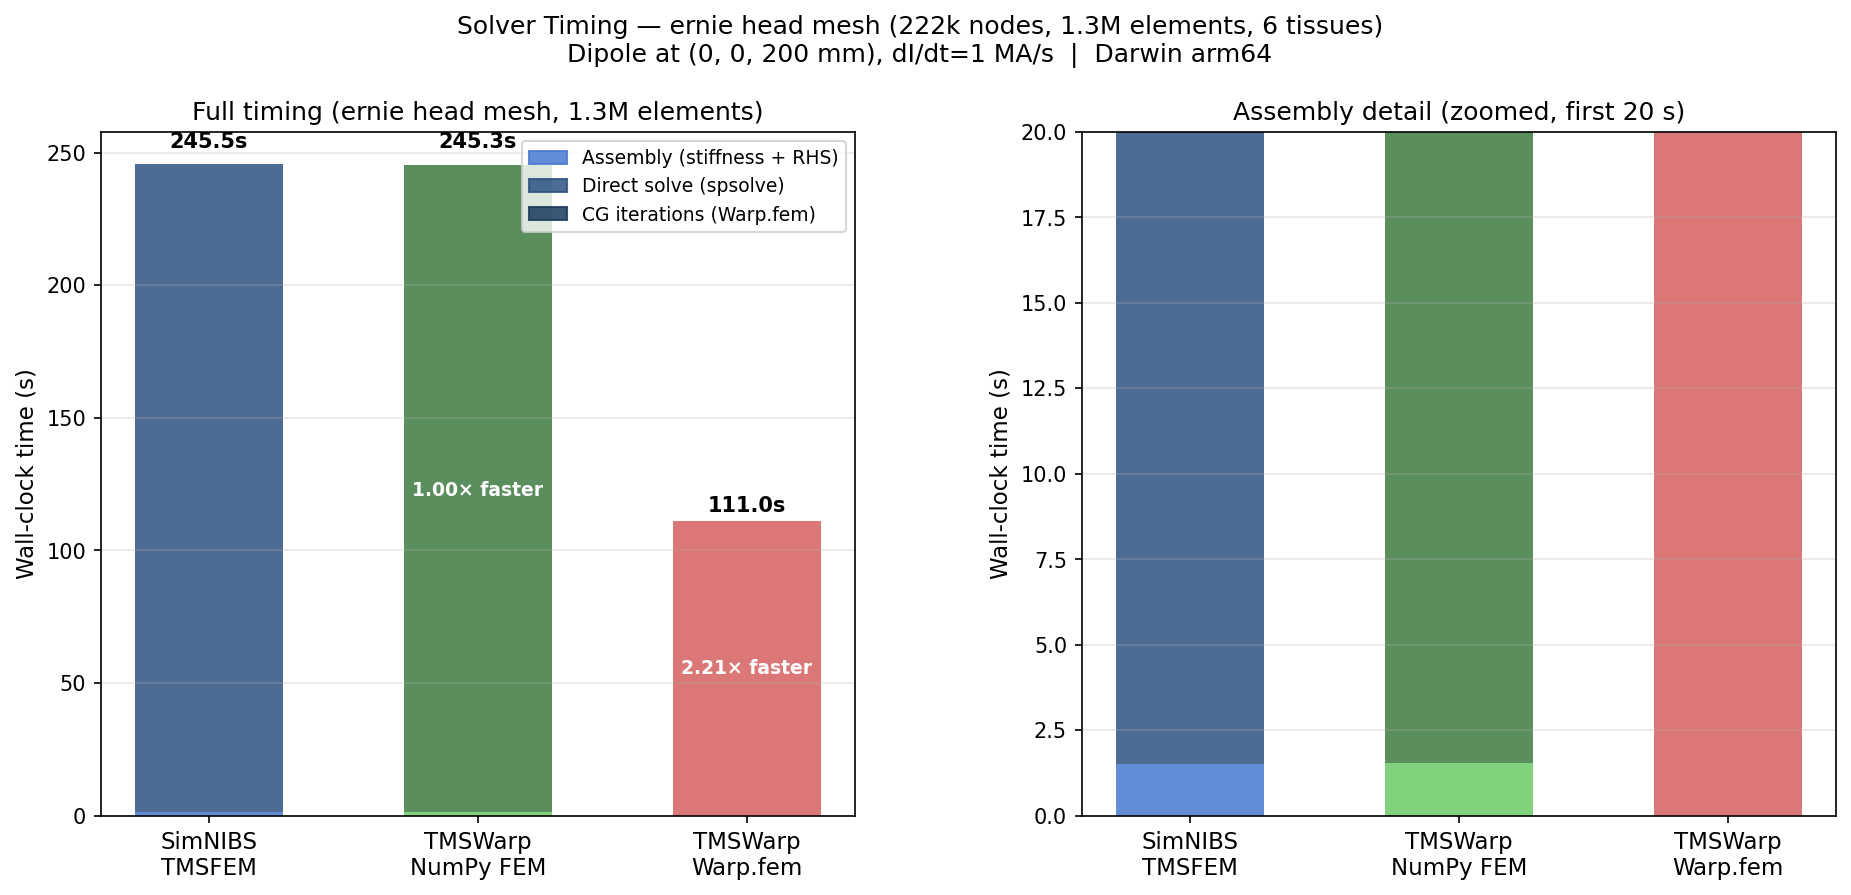
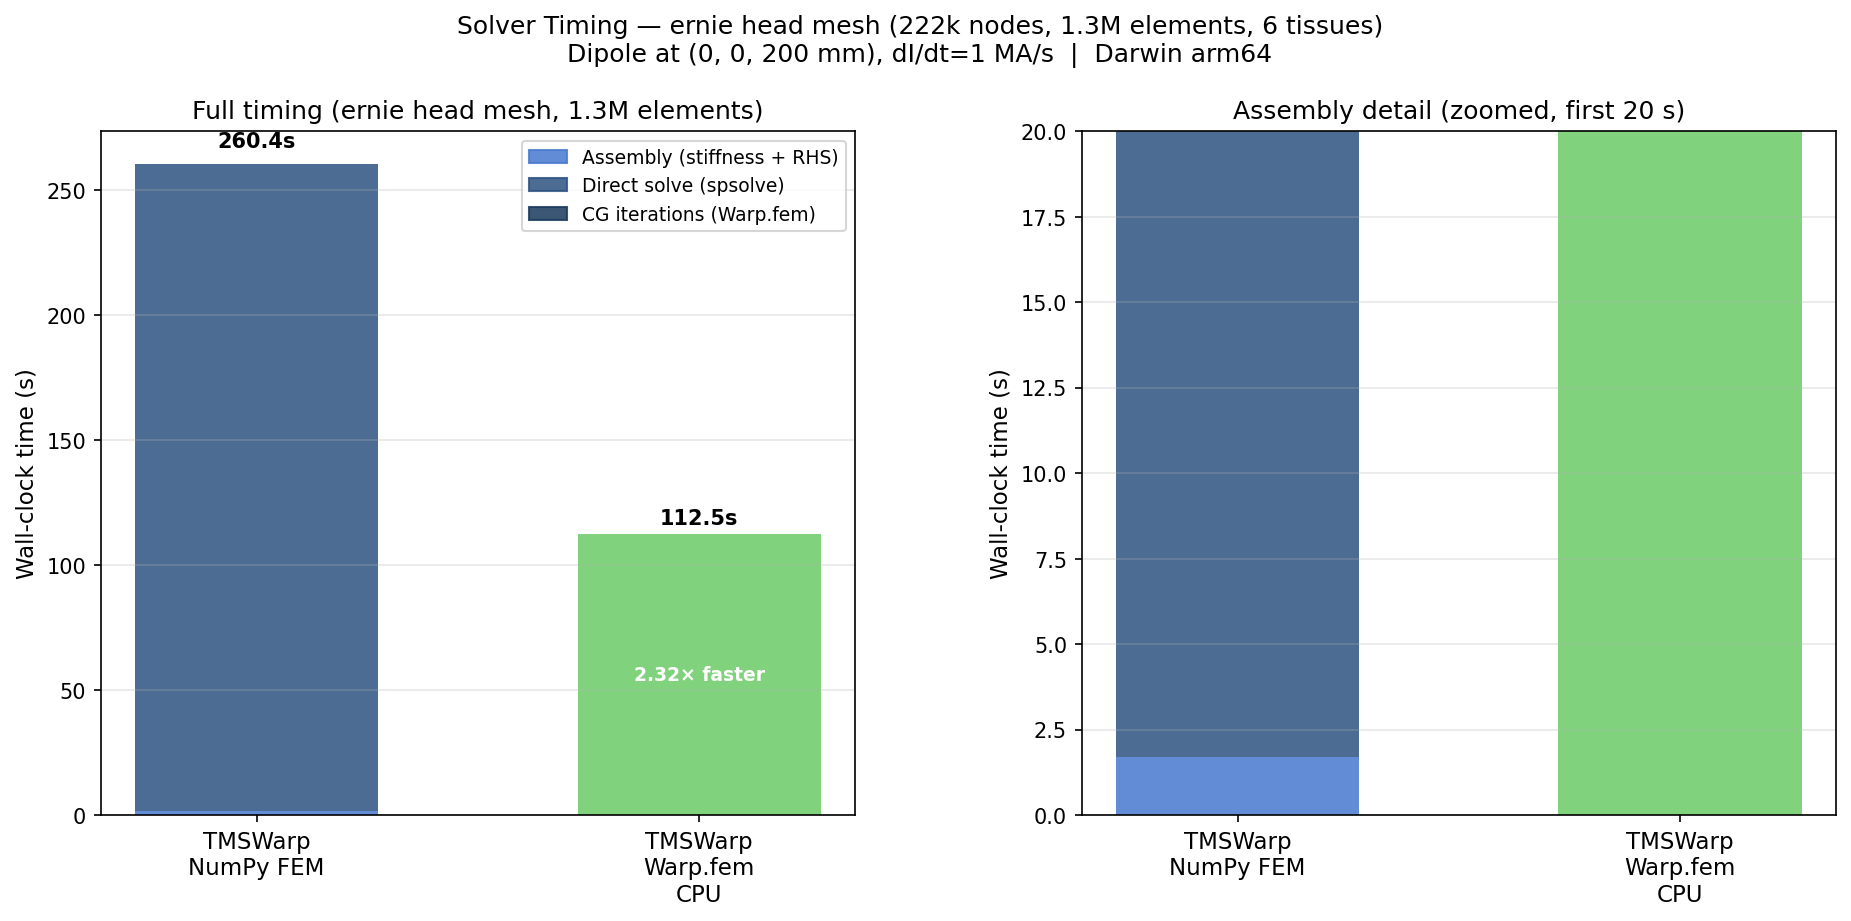
Add per-solver E-field comparison figure; split Warp CPU/GPU timing
ernie_timing.py:
- make_solver_comparison_figure(): 3-row × (1 + 2*N_warp)-col figure
  showing axial/coronal/sagittal slices of |E| for each solver plus
  Δ|E| difference maps vs the NumPy FEM reference; layout auto-scales
  to however many Warp variants are present (CPU-only or CPU+GPU)
- Slice interpolation helpers reused from ernie_comparison.py pattern;
  guard added for empty slabs (no elements in the slab)
- Added scipy.griddata + matplotlib imports at top of file
- Figure saved to ernie_solver_comparison.png after each timed run

This makes it straightforward to visually confirm whether a reported
speedup is real (correct E-field pattern) or an async timing artifact
(zero or garbage field).

ernie_solver_comparison.png: CPU run result — NumPy FEM vs Warp CPU,
  CG converged in 170 iterations (residual 9.8e-5), RDM=0.531 as expected
  for float32 on a 165:1 conductivity-contrast mesh.

diff --git a/benchmarks/ernie_timing.py b/benchmarks/ernie_timing.py
@@ -24,18 +24,29 @@ from pathlib import Path
 
 import matplotlib
 matplotlib.use("Agg")
+import matplotlib.cm as cm
 import matplotlib.patches as mpatches
 import matplotlib.pyplot as plt
 import numpy as np
+from matplotlib.colors import Normalize, TwoSlopeNorm
+from scipy.interpolate import griddata
 
 # ---------------------------------------------------------------------------
 # Paths
 # ---------------------------------------------------------------------------
 ROOT = Path(__file__).resolve().parents[1]
-ERNIE_MESH_PATH = ROOT / "ernie_data.npz"
-SIMNIBS_PATH    = ROOT / "ernie_simnibs_efield.npz"
-TIMING_CACHE    = ROOT / "ernie_timing_cache.json"
-OUTPATH         = ROOT / "ernie_timing.png"
+ERNIE_MESH_PATH   = ROOT / "ernie_data.npz"
+SIMNIBS_PATH      = ROOT / "ernie_simnibs_efield.npz"
+TIMING_CACHE      = ROOT / "ernie_timing_cache.json"
+OUTPATH           = ROOT / "ernie_timing.png"
+COMPARISON_OUTPATH = ROOT / "ernie_solver_comparison.png"
+
+# Slice planes (mm) — same as ernie_comparison.py
+AXIAL_Z    =  40.0
+CORONAL_Y  =  50.0
+SAGITTAL_X =   0.0
+SLAB_HALF  =   4.0
+GRID_N     = 200
 
 DIPOLE_POS_M  = np.array([0.0, 0.0, 0.200])
 DIPOLE_MOMENT = np.array([1.0, 0.0, 0.0])
@@ -157,6 +168,161 @@ def time_simnibs():
     _ = spalg.spsolve(S.A, b)
     t2 = time.perf_counter()
     return {"assembly": t1 - t0, "solve": t2 - t1, "total": t2 - t0}
+
+
+# ---------------------------------------------------------------------------
+# Slice-comparison figure helpers
+# ---------------------------------------------------------------------------
+
+def _slab_mask(bary, axis, plane_val):
+    return np.abs(bary[:, axis] - plane_val) < SLAB_HALF
+
+
+def _slice_axes(axis):
+    return [a for a in range(3) if a != axis]
+
+
+def _interp_slice(bary, values, mask, axis):
+    ax0, ax1 = _slice_axes(axis)
+    pts = bary[mask][:, [ax0, ax1]]
+    if len(pts) == 0:
+        xi = np.linspace(-1, 1, GRID_N)
+        yi = np.linspace(-1, 1, GRID_N)
+        return xi, yi, np.full((GRID_N, GRID_N), np.nan)
+    vals = values[mask]
+    lo0, hi0 = pts[:, 0].min(), pts[:, 0].max()
+    lo1, hi1 = pts[:, 1].min(), pts[:, 1].max()
+    xi = np.linspace(lo0, hi0, GRID_N)
+    yi = np.linspace(lo1, hi1, GRID_N)
+    Xg, Yg = np.meshgrid(xi, yi)
+    Zi = griddata(pts, vals, (Xg, Yg), method="linear")
+    return xi, yi, Zi
+
+
+def make_solver_comparison_figure(efields: dict, mesh):
+    """Generate a slice comparison figure for all available solvers.
+
+    Parameters
+    ----------
+    efields : dict
+        Mapping of label → (N_elem, 3) E-field array.
+        The first entry is treated as the reference (NumPy FEM).
+    mesh : TetMesh
+        The mesh (nodes in metres).
+    """
+    from tmswarp.conductor import element_barycenters
+
+    labels = list(efields.keys())
+    ref_label = labels[0]
+    E_ref = efields[ref_label]
+    mag_ref = np.linalg.norm(E_ref, axis=1)
+
+    bary = element_barycenters(mesh) * 1000  # m → mm
+
+    # Colour limits: 99th percentile of all solvers combined
+    all_mags = np.concatenate([np.linalg.norm(E, axis=1) for E in efields.values()])
+    vmax = np.percentile(all_mags, 99)
+    e_norm = Normalize(vmin=0, vmax=vmax)
+
+    # Difference colour limit: 98th percentile of absolute differences
+    all_diffs = np.concatenate([
+        np.abs(np.linalg.norm(E, axis=1) - mag_ref)
+        for E in list(efields.values())[1:]
+    ])
+    dlim = max(np.percentile(all_diffs, 98), 1e-9)
+    diff_norm = TwoSlopeNorm(vcenter=0, vmin=-dlim, vmax=dlim)
+
+    # Slice planes
+    slice_specs = [
+        (2, AXIAL_Z,    f"Axial z={AXIAL_Z:.0f} mm"),
+        (1, CORONAL_Y,  f"Coronal y={CORONAL_Y:.0f} mm"),
+        (0, SAGITTAL_X, f"Sagittal x={SAGITTAL_X:.0f} mm"),
+    ]
+    axis_labels = [["x (mm)", "y (mm)"], ["x (mm)", "z (mm)"], ["y (mm)", "z (mm)"]]
+
+    # Layout: reference column + (|E| + diff) per non-reference solver
+    n_warp = len(labels) - 1
+    n_cols = 1 + 2 * n_warp
+    n_rows = 3
+    fig, axes = plt.subplots(n_rows, n_cols,
+                             figsize=(4 * n_cols, 4.5 * n_rows),
+                             squeeze=False)
+
+    for row, (axis, plane_val, row_label) in enumerate(slice_specs):
+        mask = _slab_mask(bary, axis, plane_val)
+        xl, yl = axis_labels[axis][0], axis_labels[axis][1]
+
+        def _show(ax, xi, yi, Zi, norm, cmap, title):
+            extent = [xi[0], xi[-1], yi[0], yi[-1]]
+            ax.imshow(Zi, origin="lower", extent=extent,
+                      norm=norm, cmap=cmap, aspect="equal",
+                      interpolation="bilinear")
+            ax.set_title(title, fontsize=8)
+            ax.set_xlabel(xl, fontsize=7)
+            ax.set_ylabel(yl, fontsize=7)
+            ax.tick_params(labelsize=6)
+
+        # Reference column
+        xi, yi, Zi_ref = _interp_slice(bary, mag_ref, mask, axis)
+        _show(axes[row, 0], xi, yi, Zi_ref, e_norm, "hot",
+              f"{ref_label}\n|E|")
+        if row == 0:
+            axes[row, 0].set_ylabel(f"{row_label}\n{yl}", fontsize=7)
+
+        # One pair of columns per non-reference solver
+        for k, label in enumerate(labels[1:]):
+            mag_k = np.linalg.norm(efields[label], axis=1)
+            diff_k = mag_k - mag_ref
+
+            _, _, Zi_k    = _interp_slice(bary, mag_k,  mask, axis)
+            _, _, Zi_diff = _interp_slice(bary, diff_k, mask, axis)
+
+            col_e    = 1 + 2 * k
+            col_diff = 2 + 2 * k
+
+            _show(axes[row, col_e], xi, yi, Zi_k, e_norm, "hot",
+                  f"{label}\n|E|")
+            _show(axes[row, col_diff], xi, yi, Zi_diff, diff_norm, "RdBu_r",
+                  f"{label} − {ref_label}")
+
+    # Shared colour bars
+    fig.subplots_adjust(left=0.06, right=0.95, top=0.91,
+                        bottom=0.10, hspace=0.55, wspace=0.40)
+
+    cb_e = fig.colorbar(
+        cm.ScalarMappable(norm=e_norm, cmap="hot"),
+        ax=axes[:, 0], shrink=0.6, pad=0.02,
+        orientation="horizontal", fraction=0.03,
+    )
+    cb_e.set_label("|E| (V/m)", fontsize=9)
+
+    for k, label in enumerate(labels[1:]):
+        col_diff = 2 + 2 * k
+        cb_d = fig.colorbar(
+            cm.ScalarMappable(norm=diff_norm, cmap="RdBu_r"),
+            ax=axes[:, col_diff], shrink=0.6, pad=0.02,
+            orientation="horizontal", fraction=0.03,
+        )
+        cb_d.set_label(f"Δ|E| (V/m)  [{label}]", fontsize=8)
+
+    # Global stats in title
+    stats_lines = []
+    for label in labels[1:]:
+        from tmswarp.fields import rdm as _rdm, mag as _mag
+        rv = _rdm(efields[label], E_ref)
+        mv = _mag(efields[label], E_ref)
+        stats_lines.append(f"{label}: RDM={rv:.3f}  |MAG|={mv:.3f}")
+
+    machine = f"{platform.system()} {platform.machine()}"
+    fig.suptitle(
+        f"Solver E-field comparison — ernie head mesh  |  {machine}\n"
+        + "  |  ".join(stats_lines),
+        fontsize=10, y=0.97,
+    )
+
+    fig.savefig(str(COMPARISON_OUTPATH), dpi=150, bbox_inches="tight")
+    print(f"Saved: {COMPARISON_OUTPATH}")
+    plt.close()
 
 
 # ---------------------------------------------------------------------------
@@ -313,8 +479,11 @@ if __name__ == "__main__":
         from tmswarp.fields import compute_efield_at_elements, rdm, mag
         from tmswarp.solver_warp import warp_available
 
-        # E-field from NumPy reference — computed once, reused for all Warp runs
+        # E-field from NumPy reference — used for validation and comparison figure
         E_np_ref = compute_efield_at_elements(_mesh, phi_np, _dAdt, _G)
+
+        # Collect E-fields for the comparison figure: label → E array
+        efields_for_plot = {"NumPy FEM": E_np_ref}
 
         def _run_warp(label, device):
             """Time Warp.fem on one device, validate result, add to results."""
@@ -340,6 +509,8 @@ if __name__ == "__main__":
             if rdm_val > 1.0:
                 print("  WARNING: RDM > 1.0 — result is likely wrong (check CG convergence).")
 
+            efields_for_plot[f"Warp {label}"] = E_wp
+
         if warp_available():
             import warp as _wp
             _wp.init()
@@ -354,6 +525,11 @@ if __name__ == "__main__":
 
         with open(TIMING_CACHE, "w") as f:
             json.dump(results, f, indent=2)
+
+        # Slice comparison figure (only when we actually computed E-fields)
+        if len(efields_for_plot) > 1:
+            print("\nGenerating solver comparison figure ...")
+            make_solver_comparison_figure(efields_for_plot, _mesh)
 
     print_table(results)
     make_timing_plot(results)
